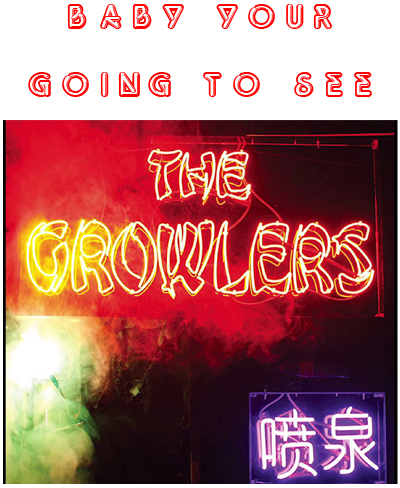
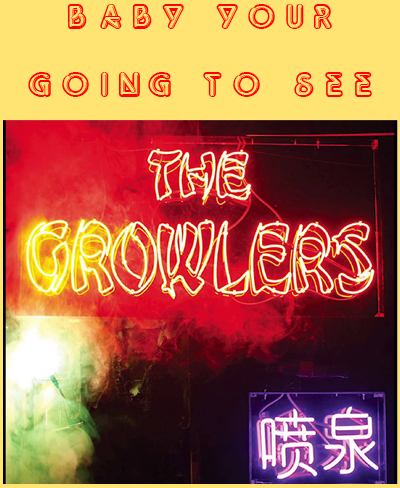
cc

Changed region(s): [[0.0, 0.0, 1.0, 1.0]]

diff --git a/css/style3.css b/css/style3.css
@@ -1,10 +1,11 @@
 
 body {
   max-width: 400px;
-  background-color: white;
+  background-color: #dadb9e;
   font-family: sans-serif;
   color: red;
-  background-image: url("../pepper.jpg");
+  background-image: url(../pepper.jpg);
+  background-blend-mode: exclusion;
   background-size: contain;
   background-repeat: no-repeat;
 
@@ -27,40 +28,45 @@ body {
 
 h1{
   text-align: center;
-  color: red;
-  font-size: 50px;
+  color: #ffa4a4;
+  font-size: 56px;
 
 }
 
 
 
 h2{
-  color: blue;
+  color: white;
   font-size: 40px;
 
 }
 
 h3 {
-  color: orange;
+  color: black;
   font-size: 30px;
 }
 
 h4 {
-  color: pink;
-  font-size: 20px;
+  color: #ffa4a4;
+  font-size: 30px;
 }
 
 button {
-  color: blue;
+  rgba(255, 68, 0, 0.82);
   font-size: 16px;
   border-radius: 36px;
   background-color: white;
-  border: 3px solid blue;
+  border: 3px solid #ffa4a4;
   padding: 11px;
   cursor: pointer;
 }
 
 a{
-  color: blue;;
+  color: #ffa4a4;
   text-decoration: none;
+}
+
+#gg {
+  height: 345px;
+  border: 23px solid #ffa4a4;
 }

diff --git a/end.html b/end.html
@@ -13,9 +13,10 @@
   <body>
     <div class='container'>
       <div class='section1'>
-        <h1> I LOVE YOU WITH MY WHOLE HEART </h1>
-        <h2> I hope you have a great day :) </h2>
-        <h3> The real celebration is when you come home </h3>
+        <h1> I LOVE you MORE than you love CRACKED PEPPER! </h1>
+        <h2> I hope you have a great day</h2>
+        <h2> The real celebration is when you come home :) </h2>
+        <img id='gg' src='gg.jpg'>
         <h4> xxxxxxxxxxxxx</h4>
       </div>
       <div class='section2'>

diff --git a/css/style.css b/css/style.css
@@ -1,8 +1,8 @@
 
 body {
   max-width: 400px;
-  background-color: orange;
-  background-image: url("../mac.jpg");
+  background-color: #00ff8c;
+  /*background-image: url("../mac.jpg");*/
   background-position: center;
   background-repeat: no-repeat;
   font-family: sans-serif;

diff --git a/css/style2.css b/css/style2.css
@@ -2,6 +2,7 @@
 body {
   max-width: 400px;
   font-family: sans-serif;
+  background-color: #ffe473;
 
 }
 
